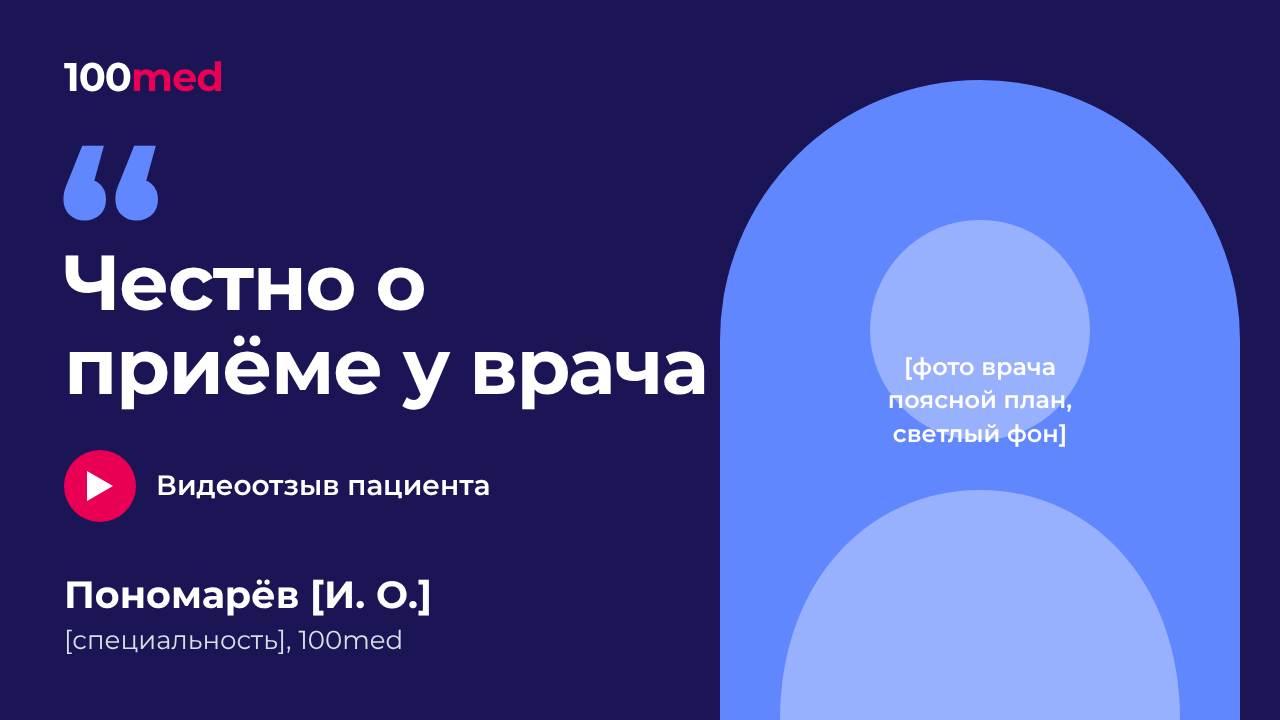
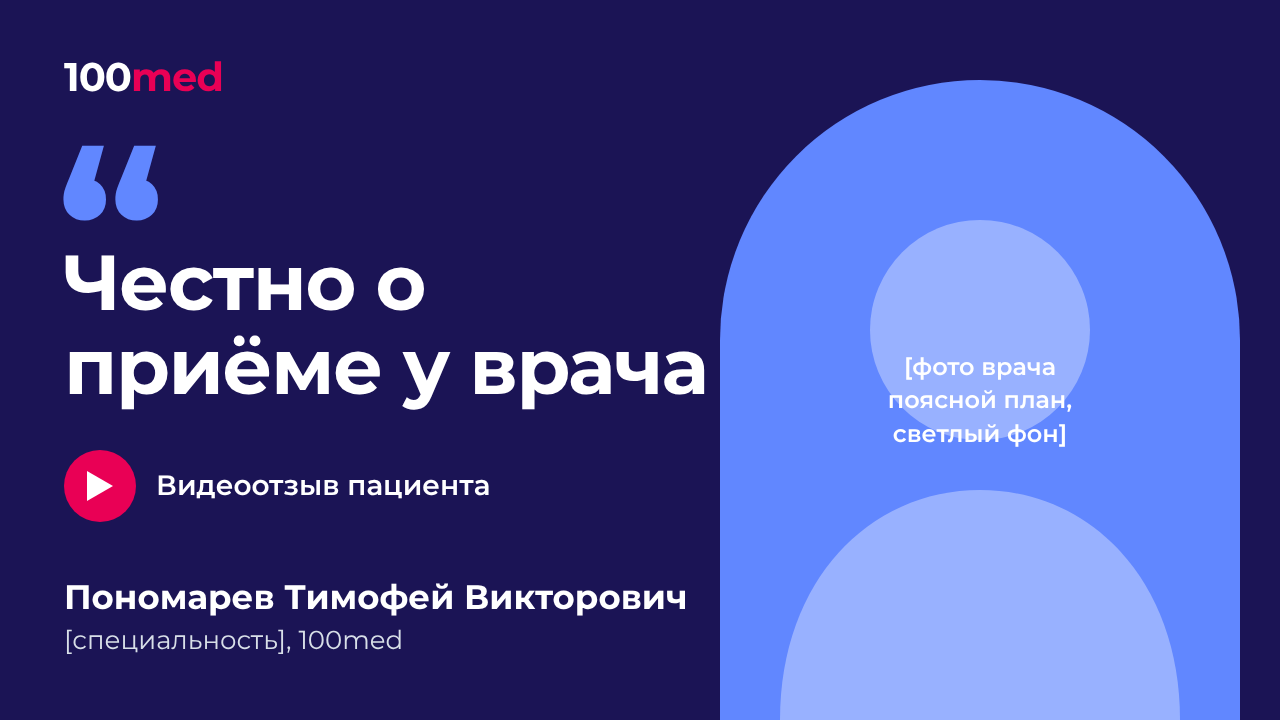
Обложки видеоотзыва: ФИО врача Пономарев Тимофей Викторович
Claude-Session: https://claude.ai/code/session_01PviFTs3NBUHuRE8r3MhosN

Changed region(s): [[0.0312, 0.7944, 0.5312, 0.8556]]

diff --git a/design/rutube/covers.html b/design/rutube/covers.html
@@ -14,7 +14,7 @@ body{font-family:'Proxima Nova','Montserrat',sans-serif;background:#fff}
 .photo span{position:relative;z-index:1}
 h1{font-weight:700;line-height:1.08;letter-spacing:-1.5px}
 .name{position:absolute;left:64px;bottom:64px}
-.name .fio{font-weight:700;font-size:38px}
+.name .fio{font-weight:700;font-size:34px;white-space:nowrap}
 .name .spec{font-weight:400;font-size:26px;margin-top:6px}
 .play{width:84px;height:84px;border-radius:50%;display:flex;align-items:center;justify-content:center}
 /* V1 Indy */
@@ -44,7 +44,7 @@ h1{font-weight:700;line-height:1.08;letter-spacing:-1.5px}
 .vert .logo{left:80px;top:270px;font-size:56px}
 .vert .pill{left:80px !important;top:380px !important;font-size:34px;padding:16px 36px}
 .vert h1{left:80px !important;top:480px !important;width:920px !important;font-size:104px !important}
-.vert .name{left:80px;top:850px;bottom:auto}
+.vert .name{left:80px;top:880px;bottom:auto}
 .vert .name .fio{font-size:52px}.vert .name .spec{font-size:36px}
 .vert .photo{right:auto !important;left:140px;width:800px;height:920px;border-radius:400px 400px 0 0;font-size:34px}
 .vert .photo svg{width:620px;height:800px}
@@ -60,7 +60,7 @@ h1{font-weight:700;line-height:1.08;letter-spacing:-1.5px}
  <div class="logo">100<b>med</b></div>
  <div class="pill">Видеоотзыв пациента</div>
  <h1>Почему я выбрала этого врача</h1>
- <div class="name"><div class="fio">Пономарёв [И. О.]</div><div class="spec">[специальность], 100med</div></div>
+ <div class="name"><div class="fio">Пономарев Тимофей Викторович</div><div class="spec">[специальность], 100med</div></div>
  <div class="photo"><svg width="420" height="560" viewBox="0 0 420 560"><circle cx="210" cy="170" r="110" fill="#354092"/><path d="M10 560c0-140 90-230 200-230s200 90 200 230z" fill="#354092"/></svg><span>[фото врача<br>поясной план,<br>светлый фон]</span></div>
 </div>
 
@@ -68,7 +68,7 @@ h1{font-weight:700;line-height:1.08;letter-spacing:-1.5px}
  <div class="logo">100<b>med</b></div>
  <div class="pill">Отзыв пациента</div>
  <h1>Как прошёл мой приём</h1>
- <div class="name"><div class="fio">Пономарёв [И. О.]</div><div class="spec">[специальность], 100med</div></div>
+ <div class="name"><div class="fio">Пономарев Тимофей Викторович</div><div class="spec">[специальность], 100med</div></div>
  <div class="photo"><svg width="420" height="560" viewBox="0 0 420 560"><circle cx="210" cy="170" r="110" fill="#fff"/><path d="M10 560c0-140 90-230 200-230s200 90 200 230z" fill="#fff"/></svg><span>[фото врача<br>поясной план,<br>светлый фон]</span></div>
 </div>
 
@@ -78,7 +78,7 @@ h1{font-weight:700;line-height:1.08;letter-spacing:-1.5px}
  <h1>Честно о приёме у врача</h1>
  <div class="play"><svg width="30" height="34" viewBox="0 0 30 34"><path d="M2 2l26 15L2 32z" fill="#fff"/></svg></div>
  <div class="playtxt">Видеоотзыв пациента</div>
- <div class="name"><div class="fio">Пономарёв [И. О.]</div><div class="spec" style="color:#d8dfe8">[специальность], 100med</div></div>
+ <div class="name"><div class="fio">Пономарев Тимофей Викторович</div><div class="spec" style="color:#d8dfe8">[специальность], 100med</div></div>
  <div class="photo"><svg width="420" height="560" viewBox="0 0 420 560"><circle cx="210" cy="170" r="110" fill="#fff"/><path d="M10 560c0-140 90-230 200-230s200 90 200 230z" fill="#fff"/></svg><span>[фото врача<br>поясной план,<br>светлый фон]</span></div>
 </div>
 
@@ -87,7 +87,7 @@ h1{font-weight:700;line-height:1.08;letter-spacing:-1.5px}
  <div class="logo">100<b>med</b></div>
  <div class="pill">Видеоотзыв пациента</div>
  <h1>Почему я выбрала этого врача</h1>
- <div class="name"><div class="fio">Пономарёв [И. О.]</div><div class="spec">[специальность], 100med</div></div>
+ <div class="name"><div class="fio">Пономарев Тимофей Викторович</div><div class="spec">[специальность], 100med</div></div>
  <div class="photo"><svg width="420" height="560" viewBox="0 0 420 560"><circle cx="210" cy="170" r="110" fill="#354092"/><path d="M10 560c0-140 90-230 200-230s200 90 200 230z" fill="#354092"/></svg><span>[фото врача<br>поясной план,<br>светлый фон]</span></div>
 </div>
 
@@ -95,7 +95,7 @@ h1{font-weight:700;line-height:1.08;letter-spacing:-1.5px}
  <div class="logo">100<b>med</b></div>
  <div class="pill">Отзыв пациента</div>
  <h1>Как прошёл мой приём</h1>
- <div class="name"><div class="fio">Пономарёв [И. О.]</div><div class="spec">[специальность], 100med</div></div>
+ <div class="name"><div class="fio">Пономарев Тимофей Викторович</div><div class="spec">[специальность], 100med</div></div>
  <div class="photo"><svg width="420" height="560" viewBox="0 0 420 560"><circle cx="210" cy="170" r="110" fill="#fff"/><path d="M10 560c0-140 90-230 200-230s200 90 200 230z" fill="#fff"/></svg><span>[фото врача<br>поясной план,<br>светлый фон]</span></div>
 </div>
 
@@ -105,7 +105,7 @@ h1{font-weight:700;line-height:1.08;letter-spacing:-1.5px}
  <h1>Честно о приёме у врача</h1>
  <div class="play"><svg width="30" height="34" viewBox="0 0 30 34"><path d="M2 2l26 15L2 32z" fill="#fff"/></svg></div>
  <div class="playtxt">Видеоотзыв пациента</div>
- <div class="name"><div class="fio">Пономарёв [И. О.]</div><div class="spec" style="color:#d8dfe8">[специальность], 100med</div></div>
+ <div class="name"><div class="fio">Пономарев Тимофей Викторович</div><div class="spec" style="color:#d8dfe8">[специальность], 100med</div></div>
  <div class="photo"><svg width="420" height="560" viewBox="0 0 420 560"><circle cx="210" cy="170" r="110" fill="#fff"/><path d="M10 560c0-140 90-230 200-230s200 90 200 230z" fill="#fff"/></svg><span>[фото врача<br>поясной план,<br>светлый фон]</span></div>
 </div>
 </body></html>
